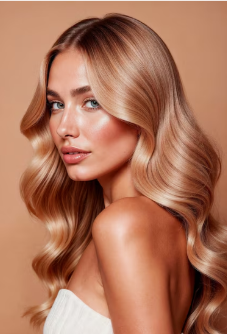
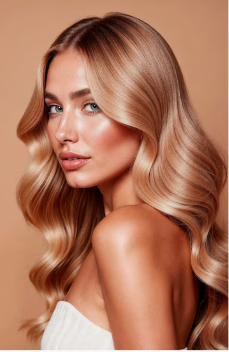
30/09/2026

diff --git a/SalaoBeleza/wwwroot/tela_inicial.css b/SalaoBeleza/wwwroot/tela_inicial.css
@@ -322,13 +322,11 @@ body {
 }
 
 
-.conteudo-promocao {
-
-    position: relative;
-
-    z-index: 2;
-
-    padding: 42px 8px;
+.conteudo-promocao {  
+    position: relative;  
+    z-index: 2;  
+    padding: 30px 8px;  
+    width: 165px; 
 }
 
 
@@ -400,26 +398,16 @@ body {
 
 
 
-.imagem-promocao {
-
-    position: absolute;
-
-    right: -8px;
-
-    bottom: 0;
-
-    width: 125px;
-
-    height: 190px;
-
-    object-fit: cover;
-
-    object-position: center top;
-
-    z-index: 1;
+.imagem-promocao {  
+    position: absolute;  
+    right: -8px;  
+    bottom: 0;  
+    width: 115px;  
+    height: 204px;  
+    object-fit: cover;  
+    object-position: center top;  
+    z-index: 1;  
 }
-
-
 
 
 .area-combos {

diff --git a/SalaoBeleza/wwwroot/tela_inicial.html b/SalaoBeleza/wwwroot/tela_inicial.html
@@ -140,7 +140,9 @@
                     <h1>10 % <span>OFF</span></h1>
 
                     <p>
-                        em todos os nossos serviços
+                        em todos os nossos 
+                        <br>
+                        serviços
                         <br>
                         de cabelo
                     </p>
